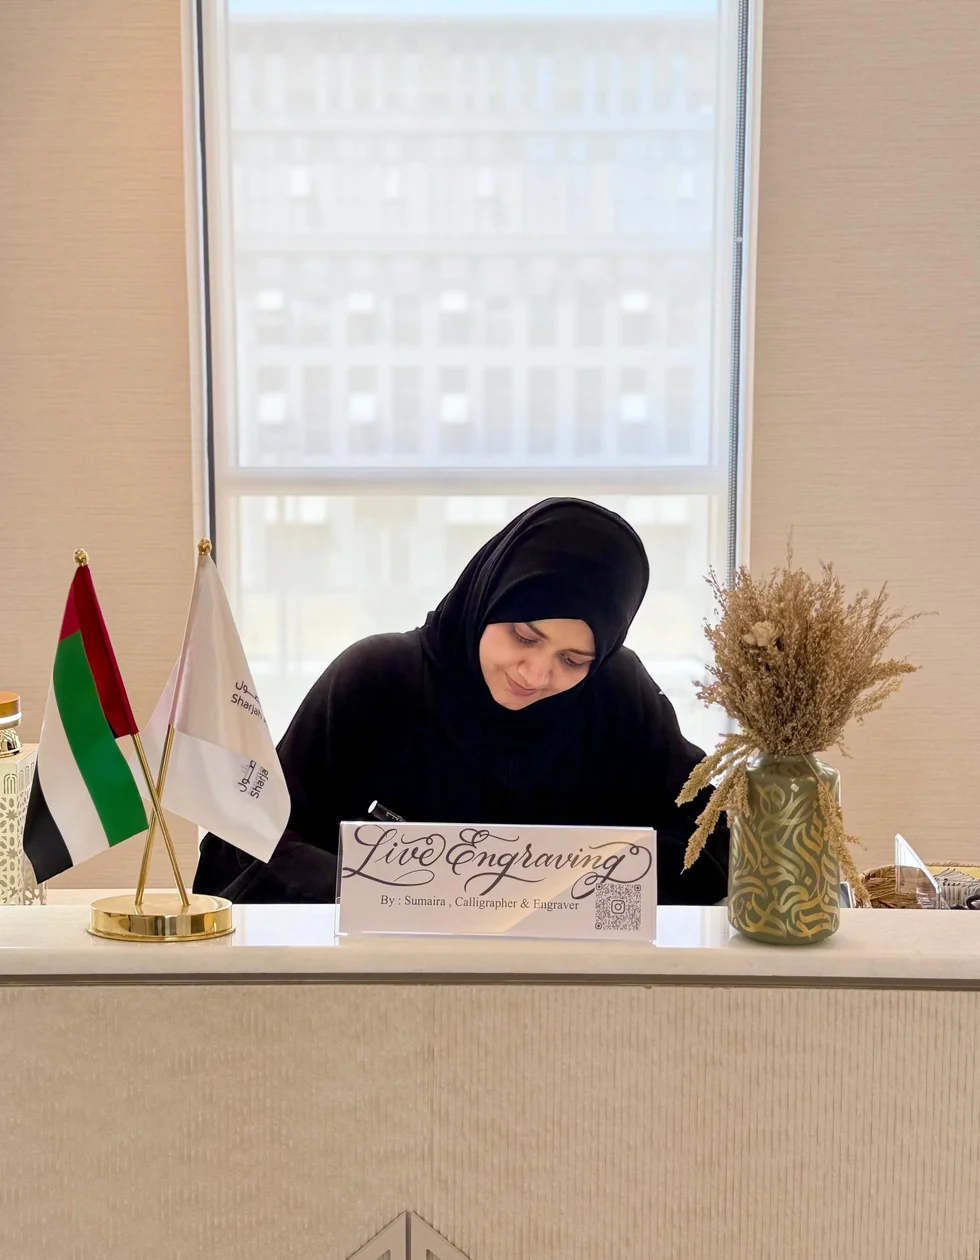
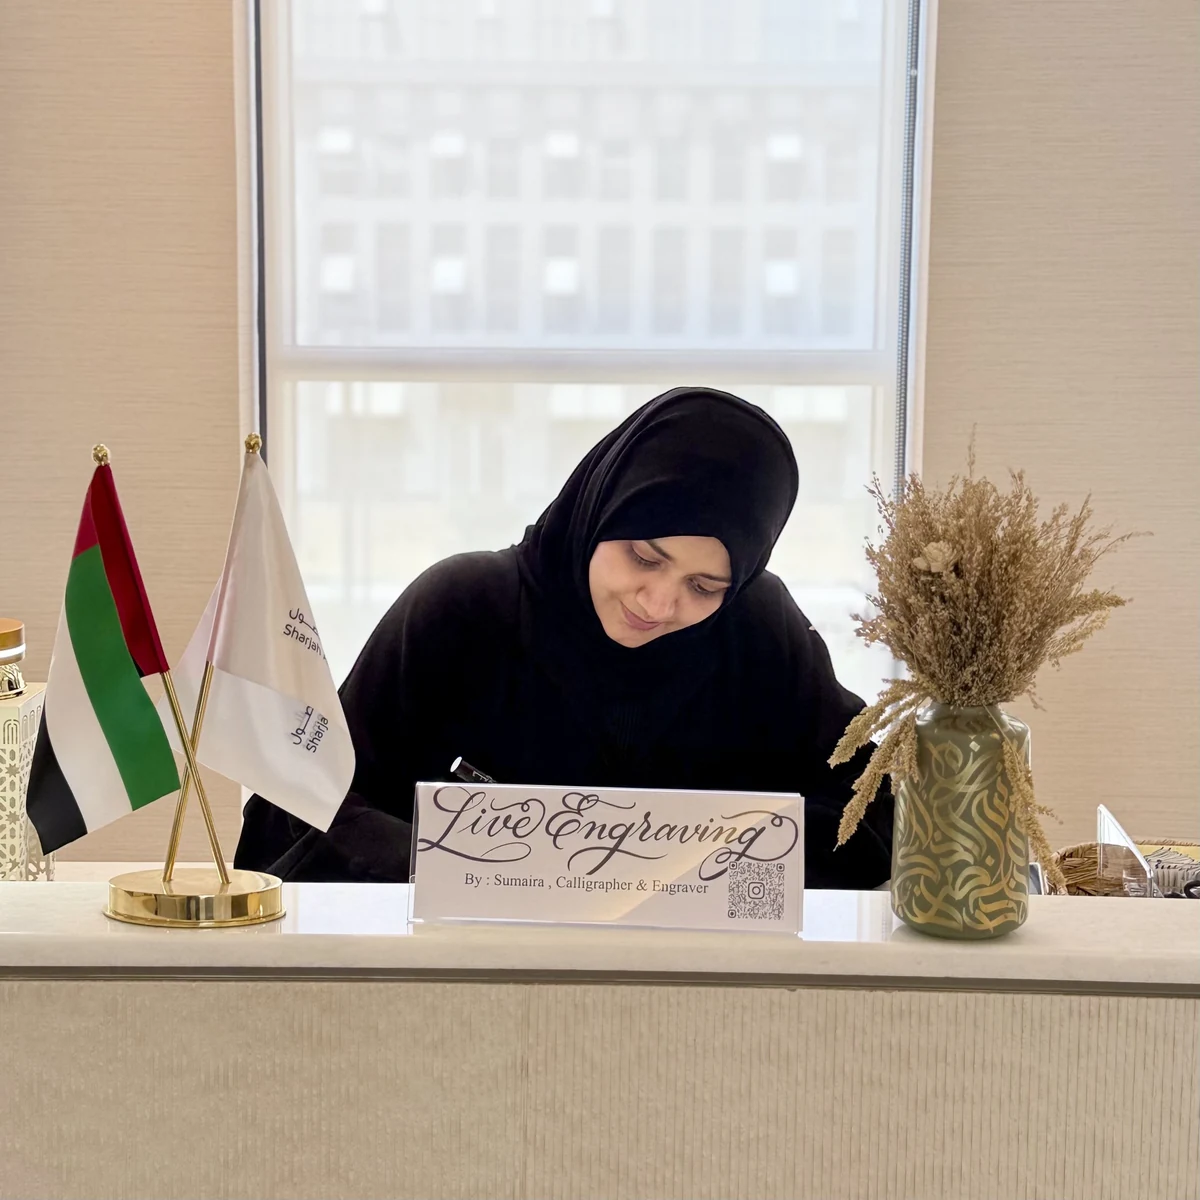
fix(events): use full uncropped live event hero photo and update showcase grid

diff --git a/src/templates/LiveEventsView/LiveEventsView.tsx b/src/templates/LiveEventsView/LiveEventsView.tsx
@@ -55,7 +55,7 @@ export function LiveEventsView() {
                         preload
                         instantReveal
                         sizes="(min-width: 1280px) 340px, (min-width: 1024px) 28vw, 55vw"
-                        className="object-cover object-bottom transition-transform duration-700 ease-out group-hover:scale-105 motion-reduce:transform-none"
+                        className="object-cover object-center transition-transform duration-700 ease-out group-hover:scale-105 motion-reduce:transform-none"
                       />
                       <span className="pointer-events-none absolute inset-x-0 bottom-0 hidden bg-gradient-to-t from-deep/70 via-deep/20 to-transparent p-3 sm:block">
                         <span className="text-[10px] font-semibold uppercase tracking-widest text-white">
@@ -64,36 +64,36 @@ export function LiveEventsView() {
                       </span>
                     </div>
 
-                    {/* Top-right: luxury perfume engraving at gala */}
+                    {/* Top-right: framed live wedding sketching */}
                     <div className="group relative col-span-5 row-span-1 overflow-hidden rounded-xl bg-ice">
                       <SkeletonImage
-                        src="/assets/images/events/gallery-gala-perfume-engraving.webp"
-                        alt="Sumaira engraving Arabic calligraphy onto perfume flacons at luxury candlelit gala"
+                        src="/assets/images/events/service-sketching.webp"
+                        alt="Framed live portrait sketch of an Emirati wedding couple with gold details"
                         fill
                         preload
                         instantReveal
+                        sizes="(min-width: 1280px) 240px, (min-width: 1024px) 20vw, 40vw"
+                        className="object-cover object-top transition-transform duration-700 ease-out group-hover:scale-105 motion-reduce:transform-none"
+                      />
+                      <span className="pointer-events-none absolute inset-x-0 bottom-0 hidden bg-gradient-to-t from-deep/70 via-transparent to-transparent p-2.5 sm:block">
+                        <span className="text-[10px] font-semibold uppercase tracking-widest text-white">
+                          Live Sketching
+                        </span>
+                      </span>
+                    </div>
+
+                    {/* Bottom-right: botanical floral glass etching */}
+                    <div className="group relative col-span-5 row-span-1 overflow-hidden rounded-xl bg-ice">
+                      <SkeletonImage
+                        src="/assets/images/events/gallery-perfume-floral.webp"
+                        alt="Botanical floral motif diamond-engraved onto an amber perfume bottle"
+                        fill
                         sizes="(min-width: 1280px) 240px, (min-width: 1024px) 20vw, 40vw"
                         className="object-cover object-center transition-transform duration-700 ease-out group-hover:scale-105 motion-reduce:transform-none"
                       />
                       <span className="pointer-events-none absolute inset-x-0 bottom-0 hidden bg-gradient-to-t from-deep/70 via-transparent to-transparent p-2.5 sm:block">
                         <span className="text-[10px] font-semibold uppercase tracking-widest text-white">
                           Perfume Engraving
-                        </span>
-                      </span>
-                    </div>
-
-                    {/* Bottom-right: on-site live calligraphy & engraving */}
-                    <div className="group relative col-span-5 row-span-1 overflow-hidden rounded-xl bg-ice">
-                      <SkeletonImage
-                        src="/assets/images/events/service-engraving-perfume.webp"
-                        alt="Sumaira performing live calligraphy and engraving on-site"
-                        fill
-                        sizes="(min-width: 1280px) 240px, (min-width: 1024px) 20vw, 40vw"
-                        className="object-cover object-center transition-transform duration-700 ease-out group-hover:scale-105 motion-reduce:transform-none"
-                      />
-                      <span className="pointer-events-none absolute inset-x-0 bottom-0 hidden bg-gradient-to-t from-deep/70 via-transparent to-transparent p-2.5 sm:block">
-                        <span className="text-[10px] font-semibold uppercase tracking-widest text-white">
-                          Live Personalization
                         </span>
                       </span>
                     </div>
